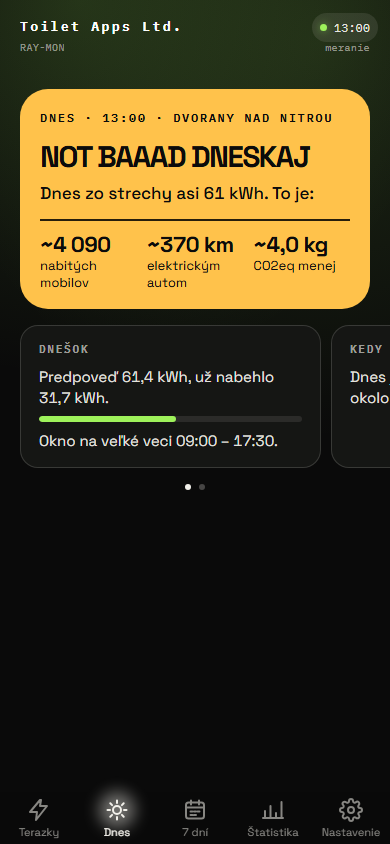
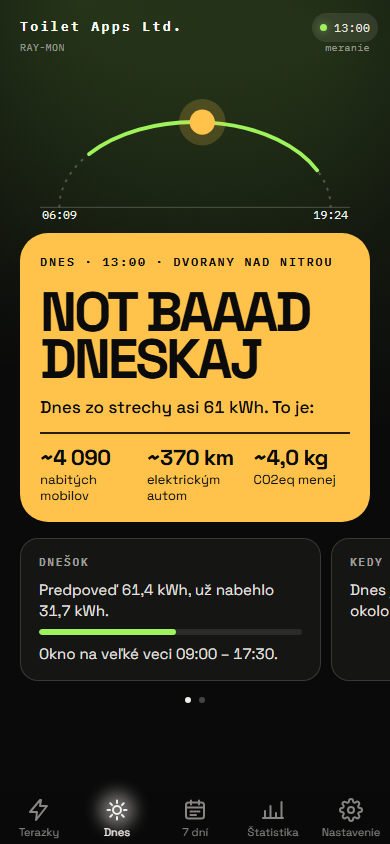
feat: dráha slnka nad plagátom karty Dnes v súčasnej appke (#383)
## Čo
- Karta **Dnes** v súčasnej appke má nad plagátom dráhu slnka ako
Obloha: prerušovaný oblúk, čas východu a západu, zelené okno, keď slnko
stačí, jantárové slnko (v noci mesiac, bez dát sivý kruh).
- Kreslenie SVG sa presunulo z `obloha/web/render/mozem.js` do nového
neutrálneho modulu `web/sun-arc.js` (doplnený do `NEUTRAL_WEB` v
`eslint.config.js` aj do `CLAUDE.md`). Výpočet je spoločný `sunArc` zo
`shared/mozem-sky.js`, takže obe appky ukazujú to isté. Farby má každá
appka vo vlastnom štýle.
- Oprava: `--word-len` sa počítal cez `split(/s+/)`, takže slovo sa
delilo na písmene „s“. Veľké slovo bolo preto zbytočne malé, napr. pri
„Not baaad dneskaj“ bolo najdlhšie slovo 13 znakov namiesto 6.

## Overenie
- `npm run check` prešiel (487 testov), `npx playwright test` tiež (366
testov).
- Nová snímka `docs/img/mozem.png` je z `npm run screenshots`.

🤖 Generated with [Claude Code](https://claude.com/claude-code)

diff --git a/obloha/web/render/mozem.js b/obloha/web/render/mozem.js
@@ -2,10 +2,11 @@
 // strecha za celý deň, výzvy a pás odporúčaní (docs/navrhy/dnes-a-teraz.html). Všetko počíta
 // shared/mozem-sky.js a shared/teraz.js, texty sú v shared/messages.js - tu sa len zapisuje do DOM.
 
-import { escapeHtml, minutesToTimeStr } from '../../../shared/format.js';
+import { escapeHtml } from '../../../shared/format.js';
 import { voiceTexts } from '../../../shared/messages-core.js';
 import { mozemSkyModel } from '../../../shared/mozem-sky.js';
 import { dnesCards } from '../../../shared/teraz.js';
+import { sunArcSvg } from '../../../web/sun-arc.js';
 import { shows } from '../state.js';
 import { setHtml, setText, show } from './write.js';
 
@@ -21,47 +22,11 @@ export function wordSize(word) {
     return word.length <= 7 ? 66 : word.length <= 11 ? 50 : 42;
 }
 
-// Oblúk v súradniciach návrhu: polovica elipsy nad obzorom, východ vľavo, západ vpravo.
-const ARC = { cx: 160, cy: 118, rx: 140, ry: 88 };
-const MOON = { x: 262, y: 42 };
-
-/** Bod na oblúku, 0 = východ, 1 = západ. @param {number} f */
-function arcPoint(f) {
-    const a = Math.PI * (1 - f);
-    return `${(ARC.cx + ARC.rx * Math.cos(a)).toFixed(1)} ${(ARC.cy - ARC.ry * Math.sin(a)).toFixed(1)}`;
-}
-
-/**
- * Oblúk slnka: prerušovaná dráha, zelený úsek dnešného okna, slnko na dráhe (v noci mesiac)
- * a časy východu a západu. Bez dát je slnko len sivý kruh a okno nie je.
- * @param {NonNullable<Model['arc']>} arc @param {boolean} off
- */
-function arcSvg(arc, off) {
-    const { cx, cy, rx, ry } = ARC;
-    const win =
-        arc.win && arc.win.to > arc.win.from
-            ? `<path class="arc-win" d="M${arcPoint(arc.win.from)} A${rx} ${ry} 0 0 1 ${arcPoint(arc.win.to)}"/>`
-            : '';
-    const at = arc.sun === null ? `${MOON.x} ${MOON.y}` : arcPoint(arc.sun);
-    const body = off
-        ? '<circle r="12" class="arc-off"/>'
-        : arc.sun === null
-          ? '<circle r="11" class="arc-moon"/><circle cx="6" cy="-4" r="9" class="arc-moon-cut"/>'
-          : '<circle r="24" class="arc-glow"/><circle r="13" class="arc-sun"/>';
-    const label = (/** @type {number | null} */ m, /** @type {number} */ x) =>
-        m === null ? '' : `<text x="${x}" y="130" class="arc-t">${minutesToTimeStr(m)}</text>`;
-    return (
-        `<svg viewBox="0 0 320 132"><path class="arc-path" d="M${cx - rx} ${cy} A${rx} ${ry} 0 0 1 ${cx + rx} ${cy}"/>${win}` +
-        `<line x1="0" y1="${cy}" x2="320" y2="${cy}" class="arc-ground"/>${label(arc.rise, cx - rx)}${label(arc.set, cx + rx)}` +
-        `<g transform="translate(${at})">${body}</g></svg>`
-    );
-}
-
 /** Hlavná časť karty. @param {Model} m @param {Dom} dom @param {import('../../../shared/messages.js').Voice} voice */
 function renderCard(m, dom, voice) {
     const MOZEM_SKY_TEXTS = voiceTexts(voice).MOZEM_SKY_TEXTS;
     show(dom.mzArc, !!m.arc);
-    if (m.arc) setHtml(dom.mzArc, arcSvg(m.arc, m.state === 'offline'));
+    if (m.arc) setHtml(dom.mzArc, sunArcSvg(m.arc, m.state === 'offline'));
     show(dom.mzAnswer, !m.ask);
     setText(dom.mzWord, m.word);
     dom.mzWord.style.setProperty('--word', `${wordSize(m.word)}px`);

diff --git a/web/render/mozem.js b/web/render/mozem.js
@@ -1,14 +1,16 @@
-// Karta Dnes (kódové meno mozem, doteraz Môžem?): veľké slovo a čo dá strecha za celý deň, pod tým
+// Karta Dnes (kódové meno mozem, doteraz Môžem?): dráha slnka, veľké slovo a čo dá strecha za celý deň, pod tým
 // pás odporúčaní - dnešok a kedy bude lepšie (docs/navrhy/dnes-a-teraz.html). Hlavičku skladá render
 // do #mozem-body, pás je stály nosič v index.html. Počíta shared/mozem.js a shared/teraz.js,
 // texty sú v shared/messages.js.
 
 import { escapeHtml, minutesToTimeStr } from '../../shared/format.js';
 import { voiceTexts } from '../../shared/messages-core.js';
+import { sunArc } from '../../shared/mozem-sky.js';
 import { mozemModel } from '../../shared/mozem.js';
 import { localMinutes } from '../../shared/solar.js';
 import { dnesCards } from '../../shared/teraz.js';
 import { writeHtml } from '../memo.js';
+import { sunArcSvg } from '../sun-arc.js';
 
 /** @typedef {ReturnType<typeof mozemModel>} MozemModel */
 /** @typedef {import('../dom.js').Dom} Dom */
@@ -29,7 +31,7 @@ export function mozemHtml(m, kick) {
     // Farba plagátu hovorí to isté čo slovo - o celom dni. Bez dát farba stavu (načítava sa, nie sú).
     const tone = m.den ? `den-${m.den.cls}` : `st-${m.state}`;
     // Písmo sa zmenší podľa najdlhšieho slova, aby sa nikdy neorezalo (ako v novej appke).
-    const len = Math.max(1, ...m.word.split(/s+/).map((w) => w.length));
+    const len = Math.max(1, ...m.word.split(/\s+/).map((w) => w.length));
     return (
         `<section class="mozem-hero ${tone}"><div class="mozem-kick">${escapeHtml(kick)}</div>` +
         `<p class="mozem-word" style="--word-len: ${len}">${escapeHtml(m.word)}</p>${day}</section>`
@@ -59,6 +61,8 @@ function renderCards(k, page, dom) {
 export function renderMozem(state, dom) {
     const m = mozemModel(state, { devices: state.oznamenia.devices, ranna: state.ranna });
     const kick = `Dnes · ${minutesToTimeStr(localMinutes(state.now, state.site.timezone))} · ${state.site.name}`;
-    writeHtml(dom.mozemBody, mozemHtml(m, kick), 'mozemBody');
+    // Nad plagátom dráha slnka s časom východu a západu - tá istá ako v novej appke.
+    const arc = sunArcSvg(sunArc(state.now, state.site, m.facts ? m.facts.window : null), m.state === 'offline');
+    writeHtml(dom.mozemBody, `<div class="mozem-arc" aria-hidden="true">${arc}</div>${mozemHtml(m, kick)}`, 'mozemBody');
     renderCards(m.state === 'loading' ? null : dnesCards(state), state.terazPage, dom);
 }

diff --git a/web/sun-arc.js b/web/sun-arc.js
@@ -1,0 +1,43 @@
+// Oblúk slnka nad veľkým slovom karty Dnes - v oboch appkách. Polohu slnka, okno a časy počíta
+// sunArc v shared/mozem-sky.js, tu sa len skladá SVG. Farby idú cez CSS triedy, každá appka
+// ich má vo vlastnom štýle.
+
+import { minutesToTimeStr } from '../shared/format.js';
+
+/** @typedef {ReturnType<typeof import('../shared/mozem-sky.js').sunArc>} SunArc */
+
+// Oblúk v súradniciach návrhu: polovica elipsy nad obzorom, východ vľavo, západ vpravo.
+const ARC = { cx: 160, cy: 118, rx: 140, ry: 88 };
+const MOON = { x: 262, y: 42 };
+
+/** Bod na oblúku, 0 = východ, 1 = západ. @param {number} f */
+function arcPoint(f) {
+    const a = Math.PI * (1 - f);
+    return `${(ARC.cx + ARC.rx * Math.cos(a)).toFixed(1)} ${(ARC.cy - ARC.ry * Math.sin(a)).toFixed(1)}`;
+}
+
+/**
+ * Oblúk slnka: prerušovaná dráha, zelený úsek dnešného okna, slnko na dráhe (v noci mesiac)
+ * a časy východu a západu. Bez dát je slnko len sivý kruh a okno nie je.
+ * @param {SunArc} arc @param {boolean} off
+ */
+export function sunArcSvg(arc, off) {
+    const { cx, cy, rx, ry } = ARC;
+    const win =
+        arc.win && arc.win.to > arc.win.from
+            ? `<path class="arc-win" d="M${arcPoint(arc.win.from)} A${rx} ${ry} 0 0 1 ${arcPoint(arc.win.to)}"/>`
+            : '';
+    const at = arc.sun === null ? `${MOON.x} ${MOON.y}` : arcPoint(arc.sun);
+    const body = off
+        ? '<circle r="12" class="arc-off"/>'
+        : arc.sun === null
+          ? '<circle r="11" class="arc-moon"/><circle cx="6" cy="-4" r="9" class="arc-moon-cut"/>'
+          : '<circle r="24" class="arc-glow"/><circle r="13" class="arc-sun"/>';
+    const label = (/** @type {number | null} */ m, /** @type {number} */ x) =>
+        m === null ? '' : `<text x="${x}" y="130" class="arc-t">${minutesToTimeStr(m)}</text>`;
+    return (
+        `<svg viewBox="0 0 320 132"><path class="arc-path" d="M${cx - rx} ${cy} A${rx} ${ry} 0 0 1 ${cx + rx} ${cy}"/>${win}` +
+        `<line x1="0" y1="${cy}" x2="320" y2="${cy}" class="arc-ground"/>${label(arc.rise, cx - rx)}${label(arc.set, cx + rx)}` +
+        `<g transform="translate(${at})">${body}</g></svg>`
+    );
+}

diff --git a/style.css b/style.css
@@ -4145,6 +4145,56 @@ b {
     gap: var(--sp-3);
     max-width: 560px;
 }
+/* Dráha slnka nad plagátom (SVG skladá web/sun-arc.js): prerušovaná dráha, zelené okno, keď slnko
+   stačí, jantárové slnko a časy východu a západu pod koncami oblúka. */
+.mozem-arc {
+    padding: 4px 20px 0;
+}
+.mozem-arc svg {
+    display: block;
+    width: 100%;
+    height: auto;
+    max-height: 200px;
+    /* Žiara slnka pri východe a západe siaha za okraj oblúka. */
+    overflow: visible;
+}
+.mozem-arc .arc-path {
+    fill: none;
+    stroke: var(--ink-20);
+    stroke-width: 2;
+    stroke-dasharray: 3 6;
+}
+.mozem-arc .arc-win {
+    fill: none;
+    stroke: var(--green);
+    stroke-width: 4;
+    stroke-linecap: round;
+}
+.mozem-arc .arc-ground {
+    stroke: var(--ink-20);
+}
+.mozem-arc .arc-t {
+    fill: var(--ink);
+    font-family: var(--font-mono);
+    font-size: 12px;
+    text-anchor: middle;
+}
+.mozem-arc .arc-glow {
+    fill: rgba(255, 194, 75, 0.2);
+}
+.mozem-arc .arc-sun {
+    fill: var(--amber);
+}
+.mozem-arc .arc-moon {
+    fill: var(--ink);
+}
+/* Kosák: kruh vo farbe pozadia zakryje časť mesiaca. */
+.mozem-arc .arc-moon-cut {
+    fill: var(--bg);
+}
+.mozem-arc .arc-off {
+    fill: var(--ink-20);
+}
 /* Hlavička je plagát: tmavé písmo na plnej farbe stavu. Veľkosť slova sa ráta zo šírky bloku
    (cqi), takže „ZAPÍNAJ.“ sa zmestí na 320 px displeji aj na desktope. */
 .mozem-hero {

diff --git a/eslint.config.js b/eslint.config.js
@@ -22,6 +22,7 @@ const NEUTRAL_WEB = [
     'day-chart',
     'teraz-gestures',
     'oznamenia',
+    'sun-arc',
 ];
 
 /**
